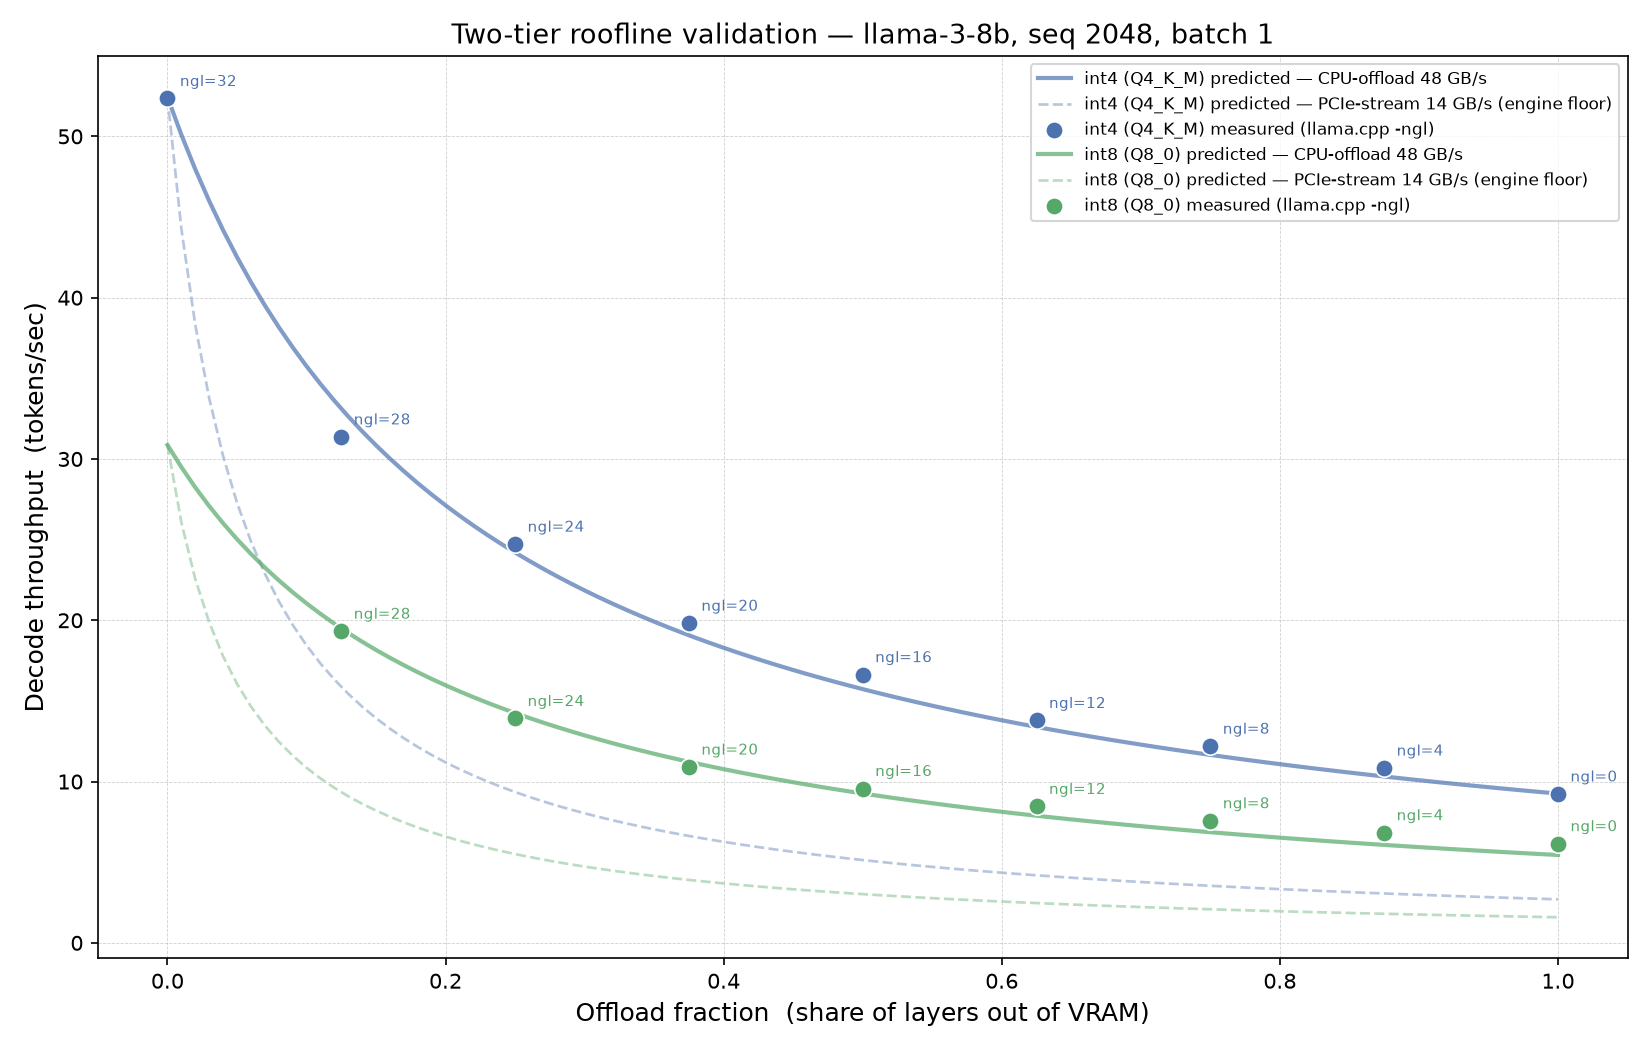
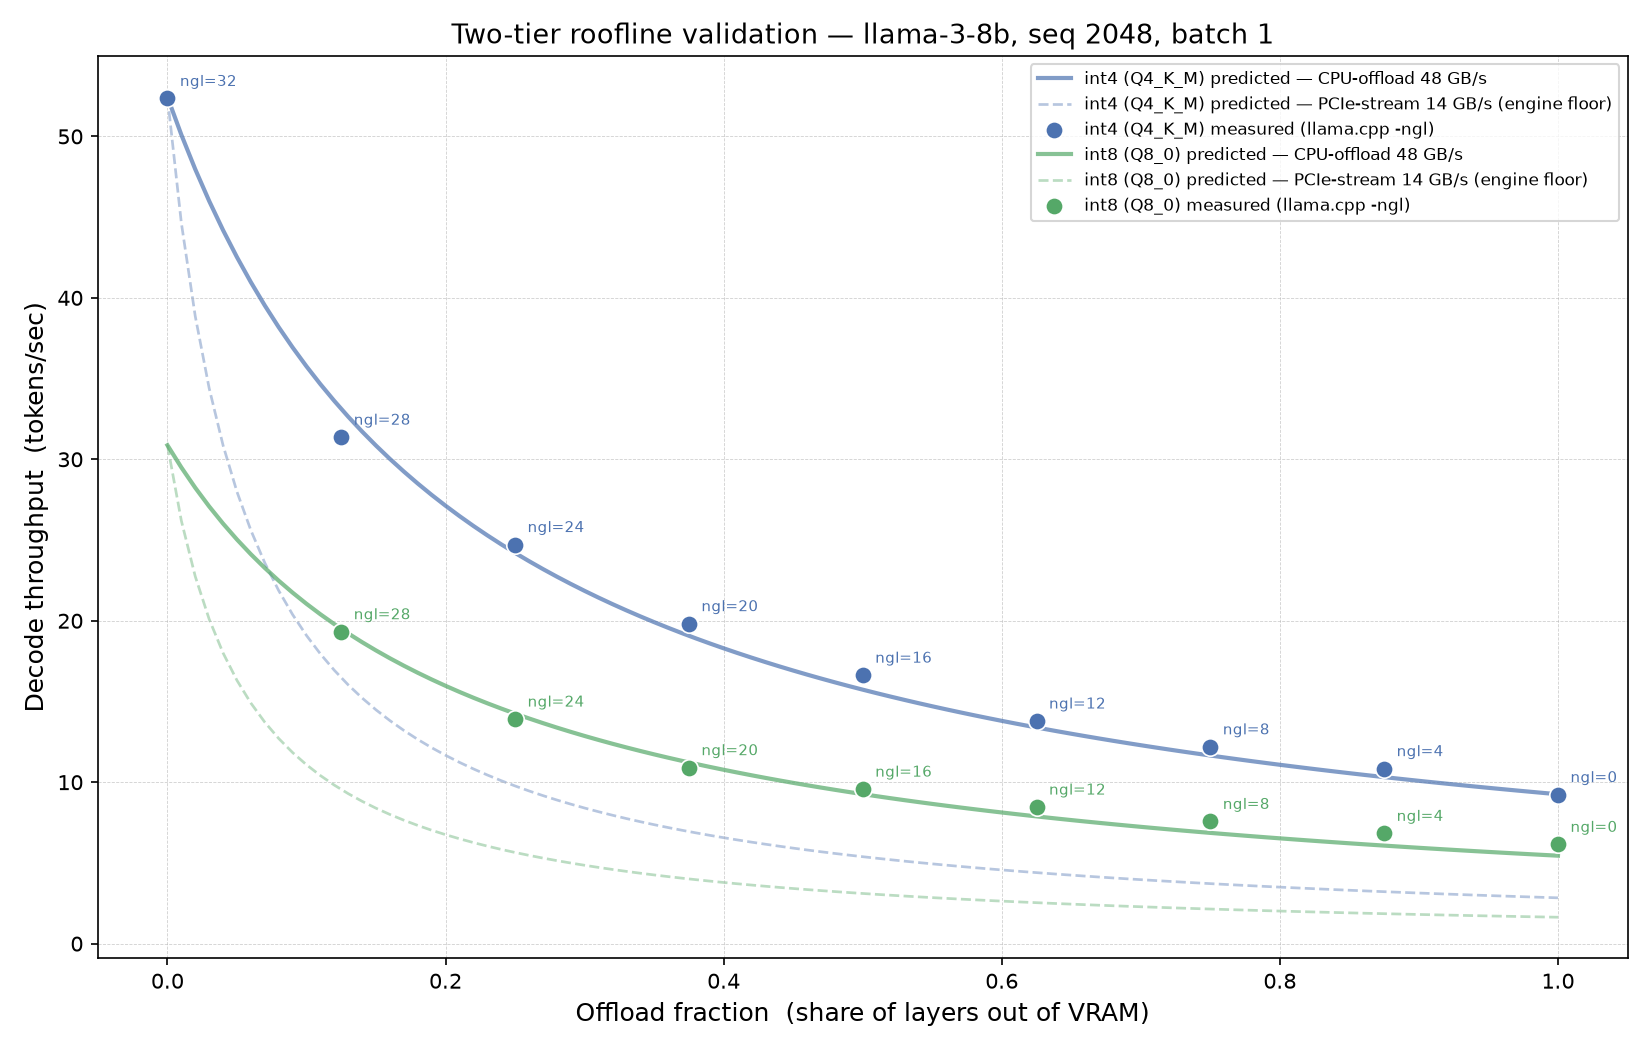
new graphed results and readme changes

diff --git a/03-inference-engine/README.md b/03-inference-engine/README.md
@@ -1,6 +1,6 @@
 # 03 inference engine
 
-in progress. this is the capstone. the two-tier roofline (steps 1-2) is done and validated against llama.cpp; the engine is next.
+in progress. this is the capstone. the tier roofline (steps 1-2b) is done and validated against llama.cpp — including the batch axis, where it predicts the tier crossover at **b\* = 14** against llama.cpp's hard-coded 32. the engine is next.
 
 ## what it is
 
@@ -47,9 +47,17 @@ feeding 272 / 14 gb/s into the roofline, decode throughput for llama-3-8b (fp16,
 
 the takeaway the table makes concrete: on the 8 gb card fp16 *has* to offload ≥51%, so ~1.6 tok/s is its floor here; the ~3 tok/s figure is the same model at ~25% spill, which needs a 12 gb card or a gen4 x16 link. int4 sidesteps all of it — 4.3 gb fits, 0% offload, ~63 tok/s.
 
+![two-tier roofline](roofline/two-tier-roofline.png)
+
+left panel is the cliff: throughput against model footprint, with the 8 gb vram boundary as the vertical line — int4 sits left of it and runs at the vram slope, fp16 sits right and falls onto the pcie slope. right panel is the same prediction as a continuous curve over offload fraction, which is the line step 2 overlays real measurements onto.
+
+```
+python3 -m roofline.roofline2
+```
+
 ### step 2: does the curve land? (validated)
 
-swept `-ngl` 0→32 on llama-3.1-8b, int4 (q4_k_m, 4.9 gb) and int8 (q8_0, 8.5 gb), seq 2048, batch 1, decode timed with `llama-bench -d 2048` so the kv cache is full. each predicted line is drawn at the gguf's real on-disk bits/param (q4_k_m is 4.9, not 4.0). the measured points land on the roofline within **±6%** across the whole offload sweep. the model holds.
+swept `-ngl` 0→32 on llama-3.1-8b, int4 (q4_k_m, 4.9 gb) and int8 (q8_0, 8.5 gb), seq 2048, batch 1, decode timed with `llama-bench -d 2048` so the kv cache is full. each predicted line is drawn at the gguf's real on-disk bits/param (q4_k_m is 4.9, not 4.0). int4 lands within **±6%** across the whole offload sweep; int8 within **±11%**, worst at the fully-offloaded end. the split matters: the 48 gb/s slope is fitted on int4's ngl=0 point, so int4's fit is partly by construction and int8's curve is the out-of-sample one. the model holds on both, but int8 is the honest number to quote.
 
 ![two-tier roofline validation](roofline/validate-llamacpp.png)
 
@@ -61,6 +69,17 @@ but they land on a slope of **48 gb/s, not 14** — and that's the finding. llam
 the 14 gb/s in "the wall" above is still the right number for the engine's streaming path — it just isn't the number llama.cpp pays. both are real, they're different mechanisms.
 
 and the gap is why this matters instead of being a footnote: **at batch 1 cpu-offload (48) beats naive pcie-streaming (14) by 3.5x.** streaming to the gpu is a *losing* move at batch 1 — the engine only gets ahead once batching hides the pcie copy behind compute and the fast gpu takes over. the baseline being stronger than the naive floor is exactly what forces the next section.
+
+**llama.cpp already streams, and finding that out is what made this project sharper.** the first draft of the paragraph above said "streaming to the gpu is what *this* engine does" as though nobody else did it. that's wrong. `ggml/src/ggml-backend.cpp:919`: when an op's weights sit in a host buffer, the scheduler offers the op to a higher-priority backend, and `ggml/src/ggml-cuda/ggml-cuda.cu:5187` takes it whenever `get_op_batch_size(op) >= op_offload_min_batch_size`. that threshold is **hard-coded to 32** at `ggml-cuda.cu:5357` (`GGML_OP_OFFLOAD_MIN_BATCH` overrides it). it's a token count on the ubatch, not a phase check — so it fires on prefill *and* on batched decode, and never at batch 1.
+
+measured on q4_k_m, both at `-ngl 0`, so the layer placement is identical and only the tier differs:
+
+| run | tok/s | what's running |
+|---|---:|---|
+| `-p 512 -nopo 1` | 37.4 | pure cpu compute — the cpu's ceiling, **0.60 tflop/s** |
+| `-p 512` (default) | 855.4 | weights streamed over pcie, gpu computes |
+
+**23x, from the same weights in the same place, by choosing a different tier.** so the contribution isn't the mechanism, it's the policy: 32 is a constant somebody picked, not a number derived from a bandwidth, a flops ceiling or a tensor shape. writing down the equation it approximates is the thing nobody has done.
 
 (int8 has no 0%-offload point: at 8.5 gb it can't sit fully resident on 8 gb, so `-ngl 32` oversubscribes vram and the driver falls back to shared memory — dropped as an artifact. that unreachable corner is the cliff, live.)
 
@@ -92,6 +111,50 @@ but **at batch 1 there is almost no compute to hide behind.** that's the whole p
 
 what manufactures compute to hide the transfer behind? **batching.** not to serve many users, there's only one user here. to raise arithmetic intensity until the pcie copy disappears under the math.
 
+### step 2b: the batch axis, and where the tiers cross
+
+steps 1-2 measured one point on this axis — batch 1 — which is the single batch where the answer is uninteresting, because every tier is bandwidth bound there and the fastest bandwidth wins. the model had no compute term at all, so it *couldn't* have said anything else. adding one needs two ceilings that were never measured, and now are:
+
+| ceiling | value | how |
+|---|---:|---|
+| cpu compute | 0.60 tflop/s | `-ngl 0 -nopo 1 -p 512` → 37.4 tok/s × 2 × 8.03e9 |
+| gpu compute | 41.6 tflop/s | `-ngl 99 -p 512` → 2592 tok/s |
+
+**69x apart.** that ratio is the engine's entire thesis, and it's why the two tiers can't stay parallel:
+
+- **cpu-offload** reads each weight out of ddr5 once and then does b tokens of math with it. bandwidth bound at b=1 (108 ms of ddr5 vs 27 ms of math), **compute bound by b ≈ 3.8**, and flat at 37 tok/s forever after. more batch buys nothing.
+- **pcie-stream** moves the same weight bytes no matter what b is. gpu compute only catches the copy at b ≈ 910, so in any practical range the tier is copy-bound and throughput climbs *linearly*.
+
+one flattens, one climbs, so they cross:
+
+> **b\* = 14.** below it llama.cpp's cpu tier is genuinely the right call and streaming loses. above it streaming wins and keeps winning.
+
+![batch crossover](roofline/batch-crossover.png)
+
+**and llama.cpp switches at 32.** so between batch 14 and 31 it stays on a tier its own hardware says it should have left — costing up to **2.2x** at b=31. that band is not a hypothetical: it's where a single-user local engine with a few parallel requests, or speculative decoding, actually lives.
+
+the model earns the prediction by making one out-of-sample call first. `CPU_TFLOPS` is fitted on the 37.4 point and `CPU_BW` on the batch-1 decode point, but nothing about the streamed run is fitted — it's the 14 gb/s pcie slope from step 0 plus the gpu ceiling, added rather than maxed because llama.cpp's op offload copies then computes (the weight is a graph-split input, recopied every eval behind a `ggml_backend_synchronize`, `ggml-backend.cpp:1554-1580`):
+
+```
+pp512, op offload   measured 855.4 tok/s   predicted 836.4   -2.2%
+```
+
+which also prices the thing step 5 is for — and the price is batch dependent in a way worth being careful about. prefetching only recovers the compute that was serialised behind the copy, so it pays exactly where there's compute to hide:
+
+| | serialised (baseline) | prefetched | gain |
+|---|---:|---:|---:|
+| pp512 (prefill) | 612 ms | 415 ms | **1.48x** |
+| decode b=32, seq 2048 | 395 ms | 383 ms | 1.03x |
+| decode b=64, seq 2048 | 439 ms | 415 ms | 1.06x |
+
+so **prefetch is a prefill/large-batch optimisation, not the decode win.** in the 14-32 band the entire gain comes from picking the right tier, not from overlapping the copy. worth knowing before spending a month on a copy-stream pipeline for step 5.
+
+```
+python3 -m roofline.batch_crossover
+```
+
+**what's still modeled, not measured.** b\* itself. every input to it is measured, but the crossover has not been observed directly — that needs batched decode (`llama-batched-bench -npl 1..64`), which is the next run. quote b\* as a prediction until then.
+
 which means the whole project collapses into one argument:
 
 > model doesn't fit -> offload -> now pcie bound -> raise arithmetic intensity until compute hides the transfer -> that is exactly what quantization and batching do
@@ -102,9 +165,11 @@ three escapes from the memory wall, all in service of one goal, on one machine. 
 
 not a new algorithm. offloading is well trodden (flexgen, headinfer, specoffload) and every serious engine already has paging and continuous batching (vllm, sglang, exllamav3, mlc). **not claiming to have invented any of it.**
 
-what doesn't exist is the model. everyone who runs local models hits this cliff and reasons about it by folklore ("just fit it in vram"). nobody writes down the equation and checks it. so:
+what doesn't exist is the model. everyone who runs local models hits this cliff and reasons about it by folklore ("just fit it in vram"), and even the good engines encode the answer as a constant — llama.cpp's tier switch is the literal integer 32, identical on a gen4 x8 laptop and a threadripper with an a100, identical for a 4096×14336 mlp tensor and a 4096×1024 attention projection. nobody writes down the equation that constant is approximating and checks it. so:
 
 > given a bandwidth budget, a vram budget, a batch size and a sequence length: where does the cliff sit, which knob should you reach for, and does the roofline predict the answer before you run it?
+
+concretely, three claims, each falsifiable on hardware i own: (1) the tier switch is a function of four measured numbers and the tensor's shape, not a constant — on this machine it's **14, not 32**; (2) it differs per layer, so no single threshold is right for both the mlp and the attention tensors; (3) prefetching across layers is worth 1.48x at prefill and almost nothing at decode batch 32 — so tier selection, not overlap, is where the decode win is.
 
 the mechanism that makes it work is a **tiered, quantized block allocator**. location and precision are both properties of a block, not global settings:
 
@@ -170,7 +235,7 @@ load a model, kv cached greedy generate. the floor. two modes: batch 1, and stat
 fp16 baseline first so there's a number to beat, then w8a16: int8 weights, fp16 activations, per-channel scales, dequant fused in-register so a weight only ever crosses the bus as one byte. then fp8 e4m3 (sm_120 has native conversion, so int8 vs fp8 is a measurement here, not a guess).
 
 **5. offload + prefetch** - `placement.py`
-per-layer placement across vram/ram, double buffered, `cudaMemcpyAsync` on a dedicated copy stream. measure transfer/compute overlap directly. **expect it to disappoint at batch 1.** that's not a bug, it's the finding that motivates step 7.
+per-layer placement across vram/ram, double buffered, `cudaMemcpyAsync` on a dedicated copy stream. measure transfer/compute overlap directly. **expect it to disappoint at batch 1.** that's not a bug, it's the finding that motivates step 7. the target is priced: step 2b says overlapping the copy is worth 1.48x at prefill but only ~1.03x at decode b=32, so **placement is the win here and prefetch is the prefill win.** build the tier-selection policy first.
 
 **6. tiered paged kv cache** - `paged_cache.py`, `attention.cu`
 block allocator where each block carries a location and a precision. attention reads a non-contiguous, mixed-precision cache. at 8gb the cache genuinely runs out, so eviction is a real decision instead of a design doc.
@@ -195,8 +260,9 @@ cross-package imports resolve, e.g. `python3 -m roofline.validate_llamacpp`.
 setup.py               builds the cuda extension (top level: sees all kernels)
 
 roofline/              deliverable #1: the model + its validation
-  roofline2.py         the two tier model. the actual deliverable.
+  roofline2.py         the tier model: bandwidth AND compute ceiling per tier
   validate_llamacpp.py step 2 gate: overlay -ngl measurements on the prediction
+  batch_crossover.py   step 2b: sweep batch, find b*, price the prefetch headroom
 
 engine/                deliverable #2: the engine (the part that's mine)
   runner.py            the floor: batch 1 + static batching
